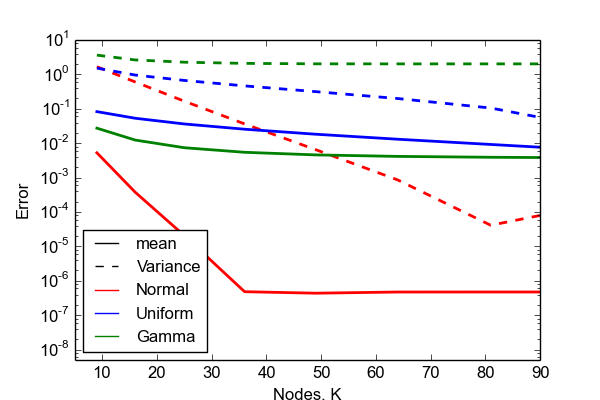
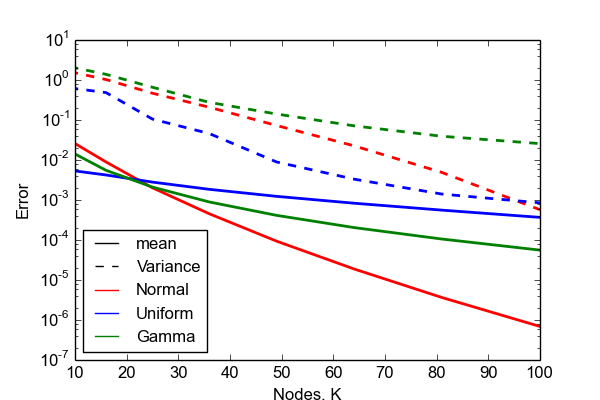
plot

diff --git a/figures/rosenblat.py b/figures/rosenblat.py
@@ -10,7 +10,8 @@ def u(x,a, I):
 
 
 
-
+def E_analytical(x):
+    return 0.5*(-x*np.exp(0.5*x**2))
 
 
 
@@ -25,7 +26,7 @@ plt.plot(-1,1, "r")
 plt.plot(-1,1, "b")
 plt.plot(-1,1, "g")
 plt.legend(["mean","Variance", "Normal","Uniform","Gamma"],loc=3,prop={"size" :12})
-plt.xlim([5,90])
+plt.xlim([6,55])
 plt.ylim([5*10**-5,10**1])
 
 
@@ -41,10 +42,25 @@ dist_R3 = cp.J(cp.Beta(4,2),cp.Beta(2,4))
 
 dist_Q = cp.MvNormal(mu,C)
 
-x = np.linspace(0, 1, 100)
+x = np.linspace(0, 1, 1000)
 dt = x[1]-x[0]
-M = 12
 
+E0 = []
+V0 = []
+for i in xrange(0,5):
+    samples = dist_Q.sample(10**5, "S")
+    solves = [u(_, *samples) for _ in x]
+    print i
+
+    E0.append(np.mean(solves, -1))
+    V0.append(np.var(solves, -1))
+
+E0 = np.mean(E0,0)
+V0 = np.mean(V0,0)
+V0 = (V0 - E0**2)*5*10**5/(5.*10**5-1) 
+
+M = 12
+"""
 s_R1 = dist_R1.sample(10**3,"H")
 
 P = cp.orth_ttr(M, dist_R1)
@@ -53,6 +69,16 @@ s_Q = dist_Q.inv(dist_R1.fwd(s_R))
 
 solves = [u(x, s[0], s[1]) for s in s_Q.T]
 U_analytic = cp.fit_regression(P, s_R, solves,rule="LS")
+"""
+P = cp.orth_ttr(M, dist_R1)
+    
+nodes_R, weights_R = cp.generate_quadrature(M+1, dist_R1, rule="G")
+nodes_Q = dist_Q.inv(dist_R1.fwd(nodes_R))
+
+weights_Q = weights_R*dist_Q.pdf(nodes_Q)/dist_R1.pdf(nodes_R)
+    
+solves = [u(x, s[0], s[1]) for s in nodes_Q.T]
+U_analytic = cp.fit_quadrature(P, nodes_R, weights_Q, solves)
 
 
 N = 8
@@ -68,8 +94,8 @@ for n in range(1,N+1):
     U_hat = cp.fit_regression(P, s_R, solves,rule="LS")
     #error.append(dt*np.sum(np.abs(cp.E(U_analytic,dist_R1) - cp.E(U_hat,dist_R1))/cp.E(U_analytic,dist_R1)))
     #var.append(dt*np.sum(np.abs(cp.Var(U_analytic,dist_R1) - cp.Var(U_hat,dist_R1))/cp.Var(U_analytic,dist_R1)))
-    error.append(dt*np.sum(np.abs(cp.E(U_analytic,dist_R1) - cp.E(U_hat,dist_R1))))
-    var.append(dt*np.sum(np.abs(cp.Var(U_analytic,dist_R1) - cp.Var(U_hat,dist_R1))))
+    error.append(dt*np.sum(np.abs(E0 - cp.E(U_hat,dist_R1))))
+    var.append(dt*np.sum(np.abs(V0 - cp.Var(U_hat,dist_R1))))
 
 
 
@@ -80,6 +106,7 @@ plt.plot(K, var,"r--",linewidth=2)
 
 
 
+"""
 
 P = cp.orth_ttr(M, dist_R2)
 s_R = dist_R2.sample(2*len(P), "M")
@@ -87,6 +114,15 @@ s_Q = dist_Q.inv(dist_R2.fwd(s_R))
 
 solves = [u(x, s[0], s[1]) for s in s_Q.T]
 U_analytic = cp.fit_regression(P, s_R, solves,rule="LS")
+"""
+nodes_R, weights_R = cp.generate_quadrature(M+1, dist_R2, rule="G")
+nodes_Q = dist_Q.inv(dist_R2.fwd(nodes_R))
+
+weights_Q = weights_R*dist_Q.pdf(nodes_Q)/dist_R2.pdf(nodes_R)
+    
+solves = [u(x, s[0], s[1]) for s in nodes_Q.T]
+U_analytic = cp.fit_quadrature(P, nodes_R, weights_Q, solves)
+
 
 
 N = 8
@@ -102,8 +138,8 @@ for n in range(1,N+1):
     U_hat = cp.fit_regression(P, s_R, solves,rule="LS")
     #error.append(dt*np.sum(np.abs(cp.E(U_analytic,dist_R2) - cp.E(U_hat,dist_R2)/cp.E(U_analytic,dist_R2))))
     #var.append(dt*np.sum(np.abs(cp.Var(U_analytic,dist_R2) - cp.Var(U_hat,dist_R2))/cp.Var(U_analytic,dist_R2)))
-    error.append(dt*np.sum(np.abs(cp.E(U_analytic,dist_R2) - cp.E(U_hat,dist_R2))))
-    var.append(dt*np.sum(np.abs(cp.Var(U_analytic,dist_R2) - cp.Var(U_hat,dist_R2))))
+    error.append(dt*np.sum(np.abs(E0 - cp.E(U_hat,dist_R2))))
+    var.append(dt*np.sum(np.abs(V0 - cp.Var(U_hat,dist_R2))))
 
 
 
@@ -111,6 +147,7 @@ for n in range(1,N+1):
 plt.plot(K,error,"b-",linewidth=2)
 plt.plot(K, var,"b--",linewidth=2)
 
+"""
 
 P = cp.orth_ttr(M, dist_R3)
 s_R = dist_R3.sample(2*len(P), "M")
@@ -118,7 +155,17 @@ s_Q = dist_Q.inv(dist_R3.fwd(s_R))
 
 solves = [u(x, s[0], s[1]) for s in s_Q.T]
 U_analytic = cp.fit_regression(P, s_R, solves,rule="LS")
+"""
 
+P = cp.orth_ttr(M, dist_R3)
+    
+nodes_R, weights_R = cp.generate_quadrature(M+1, dist_R3, rule="G")
+nodes_Q = dist_Q.inv(dist_R3.fwd(nodes_R))
+
+weights_Q = weights_R*dist_Q.pdf(nodes_Q)/dist_R3.pdf(nodes_R)
+    
+solves = [u(x, s[0], s[1]) for s in nodes_Q.T]
+U_analytic = cp.fit_quadrature(P, nodes_R, weights_Q, solves)
 
 N = 8
 error = []
@@ -133,8 +180,8 @@ for n in range(1,N+1):
     U_hat = cp.fit_regression(P, s_R, solves,rule="LS")
     #error.append(dt*np.sum(np.abs(cp.E(U_analytic,dist_R3) - cp.E(U_hat,dist_R3))/cp.E(U_analytic,dist_R3)))
     #var.append(dt*np.sum(np.abs(cp.Var(U_analytic,dist_R3) - cp.Var(U_hat,dist_R3))/cp.Var(U_analytic,dist_R3)))
-    error.append(dt*np.sum(np.abs(cp.E(U_analytic,dist_R3) - cp.E(U_hat,dist_R3))))
-    var.append(dt*np.sum(np.abs(cp.Var(U_analytic,dist_R3) - cp.Var(U_hat,dist_R3))))
+    error.append(dt*np.sum(np.abs(E0 - cp.E(U_hat,dist_R3))))
+    var.append(dt*np.sum(np.abs(V0 - cp.Var(U_hat,dist_R3))))
 
 
 
